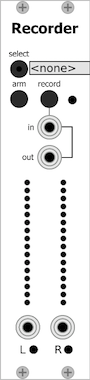
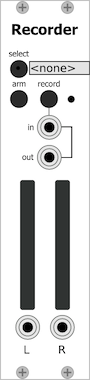
[Pages]: new recorder screenshot and fix jekyll release error.

diff --git a/docs/_modules/recorder.md b/docs/_modules/recorder.md
@@ -3,7 +3,7 @@ name: "Recorder"
 key: recorder
 version: 0.0.0
 layout: module
-add_version: 0.4.0
+add_version: 0.5.0
 ---
 A simple stereo WAV recorder.
 
